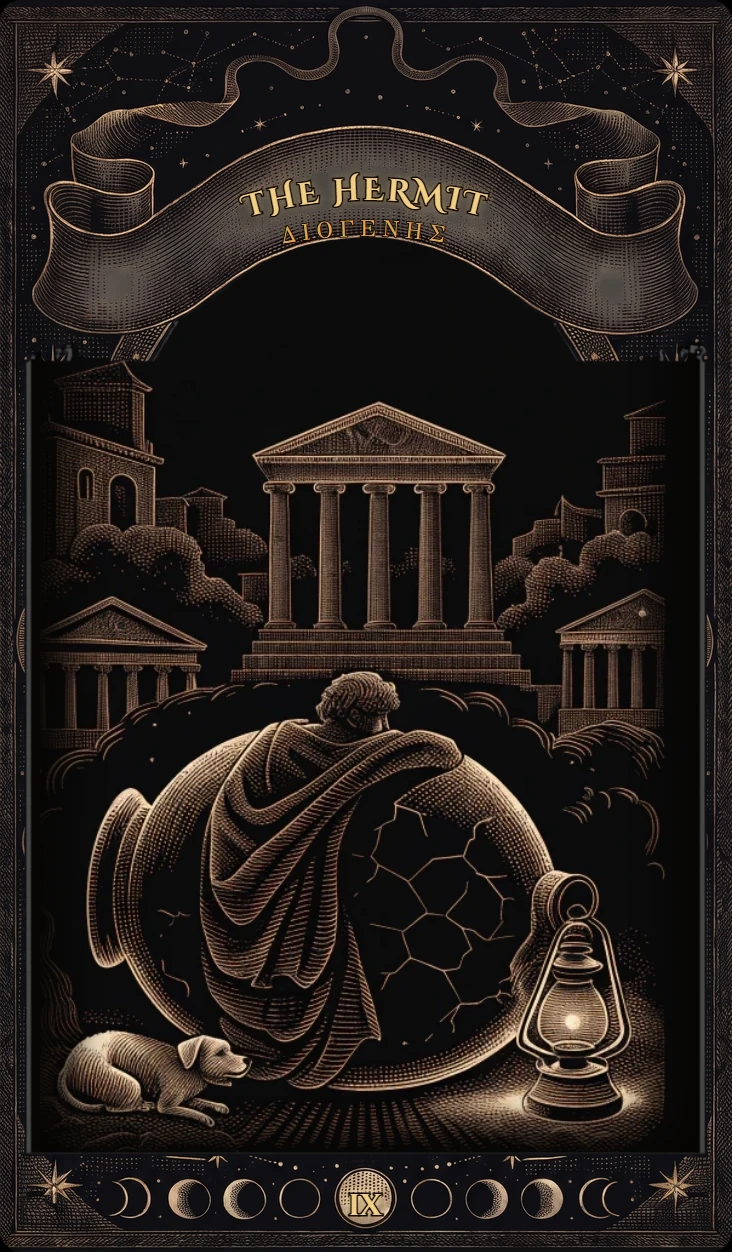
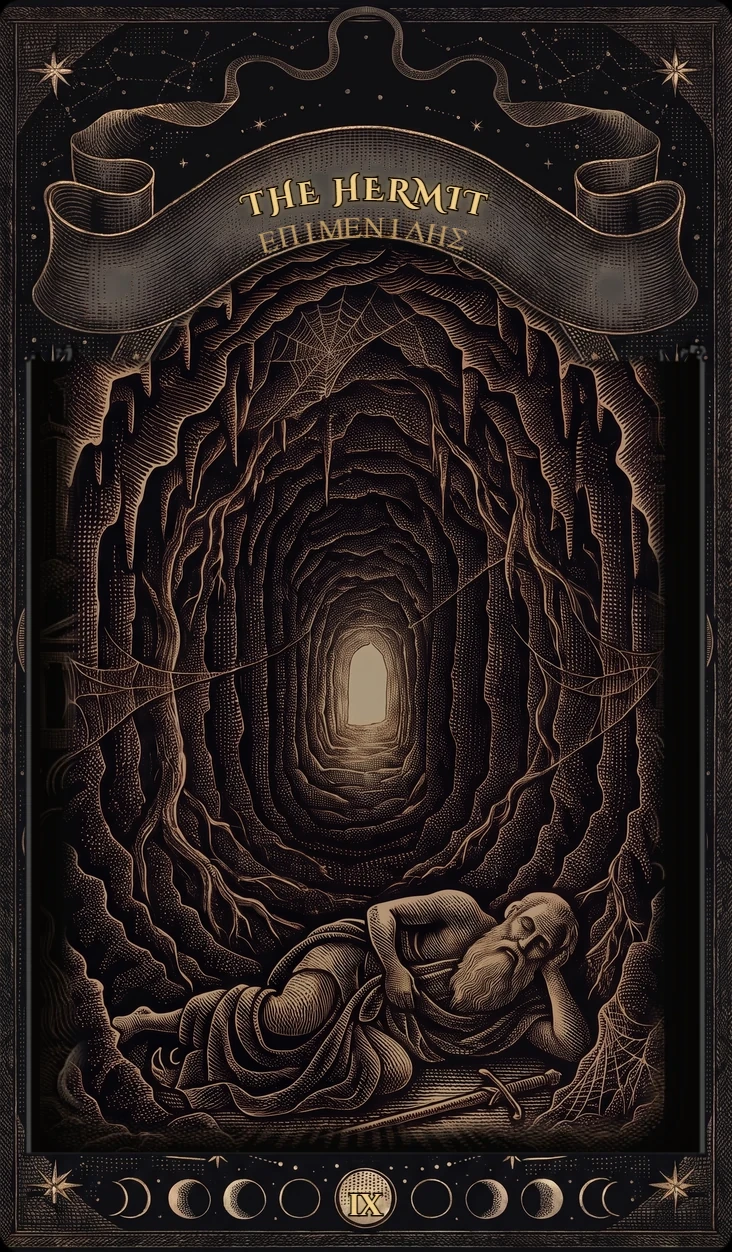
隱士改為埃庇米尼得斯：正位走出洞外提燈下山、逆位沉睡洞中；正逆位同圖生成；神話、故事、台詞同步
Claude-Session: https://claude.ai/code/session_01QtozHP4e8XUX6JxbuiPicL

Changed region(s): [[0.0902, 0.1558, 0.9016, 0.9034]]

diff --git a/js/tarot/epic.js b/js/tarot/epic.js
@@ -11,7 +11,7 @@ export const EPIC = [
   ["魔法宮殿裡燈火未燃，夜色如絲般溫柔。賽姬閉上雙眼，將自己交給那位從未見過面容的愛人厄洛斯；她看不見他的模樣，卻在黑暗中全心相信。", "夜深人靜，賽姬終究點起一盞油燈，俯身偷看熟睡的愛人。燈影搖晃，一滴熱油落在他的肩頭，厄洛斯驚醒，展開雙翼，飛入夜空，不再回頭。"], // 6 戀人・賽姬
   ["每一個黎明，太陽神赫利俄斯駕著金色日車自東方升起。四匹天馬吐著火焰奔馳，他穩穩握住韁繩，從東到西橫越整片天空，將光明灑遍大地。", "他將日車借給了年少的兒子法厄同。少年握不住韁繩，天馬脫軌四散狂奔，日車翻覆，烈焰從天而降，河流乾涸，森林成灰，大地陷入一片火海。"], // 7 戰車・赫利俄斯
   ["涅墨亞的獅子刀箭不入，所向披靡。海克力斯放下弓與劍，赤手空拳迎上前去，在幽暗的洞窟中與猛獸角力，終使那頭金鬃巨獅俯首順服。", "天后赫拉降下瘋狂，蒙蔽了英雄的心智。世間最強大的海克力斯在狂亂之中，竟向自己最心愛的人舉起了手；神力猶在，那顆心卻已迷失在黑暗裡。"], // 8 力量・海克力斯
-  ["雅典正午，陽光熾烈，第歐根尼卻提著一盞燈籠，穿行於柱廊與人群之間。燈火在白晝裡微弱搖曳；有人問他何故，他說，他在尋找一個誠實的人。", "他住進一只破舊的陶甕，背對整座雅典城。城中的喧囂、權貴與訪客都被擋在甕外，他不迎不見，不言不語，獨自守著那方狹小的陰影。"], // 9 隱士・第歐根尼
+  ["克里特的牧人埃庇米尼得斯走進山中的洞穴避暑，一睡便是五十七年。當他醒來，鬚髮已白，世間早換了模樣；他卻帶著在漫長寂靜中領悟的智慧走出洞口，一手持杖、一手提燈，沿著山路走向人間。後來雅典遭逢瘟疫，人們請他前去，為那座城淨化與指引。", "洞外的季節一次次更替，洞裡的老人卻始終沒有醒來。燈火早已熄滅，蛛網從手杖牽到岩壁，長長的白鬚鋪滿石地。他離開人群太久，久到世界忘了他，他也忘了世界；那份本該照亮別人的智慧，就這樣沉睡在黑暗深處。"], // 9 隱士・埃庇米尼得斯
   ["英雄梅里埃格降生之時，三位命運女神悄然現身於爐火之旁。紡輪轉動，絲線綿延，她們在搖曳的火光中，紡出這個嬰孩一生的命運之線。", "為了改寫凡人的命數，阿波羅以甘醇的美酒灌醉了三位女神。紡輪在醉意中停止轉動，命運之線失去了秩序，糾結纏繞成一團，再也理不出原本的去向。"], // 10 命運之輪・命運三女神
   ["黃金時代，正義女神阿斯特賴亞與凡人同居於大地。她手持天秤，行走於城邑與田野之間，為人間衡量是非輕重，主持公道，萬民安然。", "人心一代代敗壞，直到黑鐵時代降臨。阿斯特賴亞終於離開人間，升上夜空化為處女座；她手中的天秤也化作點點群星，成為天秤座，高懸在夜色裡。"], // 11 正義・阿斯特賴亞
   ["普羅米修斯為人類盜來天火，因而被縛在高加索山的岩壁上。鐵鍊加身，風雪侵襲，他卻神色平靜，仰望長空，不發一聲怨言，默默承受眾神的懲罰。", "他心中藏著一個秘密，只要說出口，便能換得自由。可他始終緊閉雙唇，任由鎖鏈與苦痛日復一日延續，高加索山上的長夜，彷彿永無盡頭。"], // 12 吊人・普羅米修斯

diff --git a/index.html b/index.html
@@ -189,7 +189,7 @@
 <div class="rotate" aria-hidden="true"><p>請將裝置轉為直向，再走入神殿</p></div>
 
 <noscript><p style="color:#fff;padding:2em">需要開啟 JavaScript，神殿的門才打得開。</p></noscript>
-<script type="importmap" id="vmap">{"imports": {"./js/ai.js": "./js/ai.js?v=d07fc045", "./js/config.js": "./js/config.js?v=ad158171", "./js/main.js": "./js/main.js?v=39429054", "./js/oracle-prompt.js": "./js/oracle-prompt.js?v=434e1626", "./js/scene/audio.js": "./js/scene/audio.js?v=d5279925", "./js/scene/burn.js": "./js/scene/burn.js?v=3e18b2e6", "./js/scene/fire.js": "./js/scene/fire.js?v=11872eeb", "./js/scene/gate.js": "./js/scene/gate.js?v=f14106d5", "./js/scene/seal.js": "./js/scene/seal.js?v=e615b506", "./js/scene/serpent.js": "./js/scene/serpent.js?v=c92a4a9b", "./js/scene/smoke.js": "./js/scene/smoke.js?v=f09967c1", "./js/scene/temple.js": "./js/scene/temple.js?v=c6daa503", "./js/share.js": "./js/share.js?v=1f0a6c0a", "./js/tarot/cardface.js": "./js/tarot/cardface.js?v=cd074b8f", "./js/tarot/data.js": "./js/tarot/data.js?v=c1fa96ae", "./js/tarot/engine.js": "./js/tarot/engine.js?v=771412b6", "./js/tarot/epic.js": "./js/tarot/epic.js?v=b103a512", "./js/tarot/minor.js": "./js/tarot/minor.js?v=1ad1f15e", "./js/tarot/myth.js": "./js/tarot/myth.js?v=04513eea", "./js/tarot/reveal.js": "./js/tarot/reveal.js?v=6a4c5b11"}}</script>
+<script type="importmap" id="vmap">{"imports": {"./js/ai.js": "./js/ai.js?v=d07fc045", "./js/config.js": "./js/config.js?v=ad158171", "./js/main.js": "./js/main.js?v=39429054", "./js/oracle-prompt.js": "./js/oracle-prompt.js?v=434e1626", "./js/scene/audio.js": "./js/scene/audio.js?v=d5279925", "./js/scene/burn.js": "./js/scene/burn.js?v=3e18b2e6", "./js/scene/fire.js": "./js/scene/fire.js?v=11872eeb", "./js/scene/gate.js": "./js/scene/gate.js?v=f14106d5", "./js/scene/seal.js": "./js/scene/seal.js?v=e615b506", "./js/scene/serpent.js": "./js/scene/serpent.js?v=c92a4a9b", "./js/scene/smoke.js": "./js/scene/smoke.js?v=f09967c1", "./js/scene/temple.js": "./js/scene/temple.js?v=c6daa503", "./js/share.js": "./js/share.js?v=1f0a6c0a", "./js/tarot/cardface.js": "./js/tarot/cardface.js?v=cd074b8f", "./js/tarot/data.js": "./js/tarot/data.js?v=c1fa96ae", "./js/tarot/engine.js": "./js/tarot/engine.js?v=771412b6", "./js/tarot/epic.js": "./js/tarot/epic.js?v=7c13792f", "./js/tarot/minor.js": "./js/tarot/minor.js?v=1ad1f15e", "./js/tarot/myth.js": "./js/tarot/myth.js?v=0304d3cb", "./js/tarot/reveal.js": "./js/tarot/reveal.js?v=a97a4283"}}</script>
 <script type="module" src="js/main.js?v=39429054"></script>
 </body>
 </html>

diff --git a/js/tarot/myth.js b/js/tarot/myth.js
@@ -11,7 +11,7 @@ export const MYTH = [
   ["賽姬", "在黑暗的宮殿中信任看不見的愛人 → 結合、真誠的連結", "點燈偷看，熱油滴落，愛人飛走 → 信任破裂", "阿普列尤斯《金驢記》"], // 6
   ["赫利俄斯", "每天駕著日車橫越天空，駕馭四匹天馬 → 意志、駕馭", "把日車借給兒子，日車失控、焚燒大地 → 失控", "奧維德《變形記》"], // 7
   ["海克力斯", "赤手空拳制服涅墨亞獅子 → 勇氣、內在力量", "被赫拉逼瘋，在狂亂中傷害了家人 → 本能失控、力量反噬", "阿波羅多洛斯《書庫》、尤里比底斯《海克力斯》"], // 8
-  ["第歐根尼", "大白天提著燈籠，在雅典尋找誠實的人 → 尋求真理", "住在大甕裡，背對城市，拒絕所有人 → 過度孤立", "第歐根尼·拉爾修《名哲言行錄》"], // 9
+  ["埃庇米尼得斯", "在宙斯誕生的洞穴裡沉睡五十七年，醒來時已是白髮老人，帶著看透世事的智慧走出洞外，提燈照向山下的人間 → 獨處中得來的智慧、為人照路", "仍沉睡在幽深的洞穴裡，燈已熄滅、蛛網纏身，洞外的歲月一年年流逝 → 退得太深、與世隔絕、錯過人生", "第歐根尼·拉爾修《名哲言行錄》第一卷"], // 9
   ["命運三女神", "在梅里埃格出生時現身爐火旁，紡出他的命運 → 命運的轉折、新循環", "被阿波羅灌醉，紡輪被迫停下，命運遭到竄改 → 抗拒改變、命運失序", "奧維德《變形記》、尤里比底斯《阿爾刻提斯》"], // 10
   ["阿斯特賴亞", "黃金時代與人類同住，在人間主持公正 → 公平、真相", "人心敗壞，她離開人間升為處女座，天秤化為天秤座 → 不公、正義離去", "奧維德《變形記》、阿拉托斯《物象》"], // 11
   ["普羅米修斯", "為人類盜火，被縛在高加索山，平靜承受 → 為意義而犧牲", "握有能讓自己獲釋的秘密卻不肯說，讓痛苦無止境延續 → 停滯、抗拒放手", "埃斯庫羅斯《被縛的普羅米修斯》"], // 12

diff --git a/js/tarot/reveal.js b/js/tarot/reveal.js
@@ -14,7 +14,7 @@ export const GLIMPSE = [
   ["賽姬在黑暗裡選擇相信。這張牌關於兩個人，也關於一個選擇。", "燈油滴了下來，愛人飛走了。信任出了一道裂縫。"], // 6 戀人
   ["赫利俄斯穩穩拉住四匹天馬。韁繩還握在你自己手上。", "日車脫了韁，往大地撞過去。速度快過了掌控。"], // 7 戰車
   ["海克力斯空著手按住了獅子。這股力氣是沉住的。", "這是海克力斯被逼瘋的那一夜。有一股情緒壓不住了。"], // 8 力量
-  ["第歐根尼大白天提著燈在找人。先停一下，自己想清楚。", "他躲進大甕裡，背對整座城。你把自己關得有點久了。"], // 9 隱士
+  ["白髮的老人提著燈，從洞穴走下山來。他在那片寂靜裡待了很久，總算帶著光出來了。", "老人還睡在洞穴深處，燈早已熄了。有人在暗處待得太久，久到忘了外面的路。"], // 9 隱士
   ["三位命運女神在爐火邊紡線。輪子在轉，事情要變了。", "紡輪被迫停了下來。有些事卡住了，不肯轉。"], // 10 命運之輪
   ["阿斯特賴亞拿著天秤坐在人間。這件事會照著道理走。", "她離開了人間，天秤掛上了天。有個地方不公平。"], // 11 正義
   ["普羅米修斯被綁在山上，臉色卻很平靜。該停下來，換個角度看了。", "他明明知道解開鎖鏈的辦法，卻一直不說。有人在原地耗著。"], // 12 吊人

diff --git a/指示清單.md b/指示清單.md
@@ -85,5 +85,5 @@
 | 76 | 11-27 | 還有很多 AI 用詞（「一週內就講」「你的本事不缺」「不是 A 是 B」、叫人一條條寫下來等鼓勵口吻），要像正常人日常交談 | ✅ | 提示詞重寫「說話的方式」：像真的人在聊天、說看到的不開處方、不排期限、不派功課、不打氣、不評價、禁「不是A是B」所有變形；附對照例句；AI人設.md 同步 |
 | 77 | 11-27 | 卡圖有三隻腳的，請重做 | ✅ | 逐張檢查 44 張並列出總表給需求方確認，沒有找到；需求方確認是記錯，卡圖維持原樣。之後若重畫，正逆位要一起生成 |
 | 78 | 11-27 | 審判卡圖畫風不搭；正逆位要一起產出再裁切 | ✅ | 用卡牌自訂風格在同一張圖裡並排生成正位（拉弓穿斧）與逆位（海上被忘憂島、塞壬耽擱），裁成兩半合回金框／黑框 |
-| 79 | 11-27 | 隱士的卡圖與寓意不滿意，考慮改用回聲（厄科） | 🔧 | 等需求方定故事 |
+| 79 | 11-27 | 隱士的卡圖與寓意不滿意；隱士應是老者；洞內／洞外是正逆位的重點 | ✅ | 改為埃庇米尼得斯：正位走出洞外、提燈下山照向人間；逆位沉睡洞窟深處、燈熄蛛網。正逆位同圖生成後裁切，以女祭司、正義為臉部參照柔化；去掉方向反了的腳印；卷軸希臘名改為 ΕΠΙΜΕΝΙΔΗΣ；牌上神話、大圖故事、揭牌台詞同步改寫 |
 | 80 | 11-27 | 解讀用語白話也要莊嚴、神祕，不要太現代，更不要流行用語（例如「硬撐」） | ✅ | 提示詞與人設加入語氣要求與禁用清單（硬撐、內捲、躺平、擺爛、卡關、舒適圈、搞定等）；古法牌義裡的「硬撐」改寫 |
